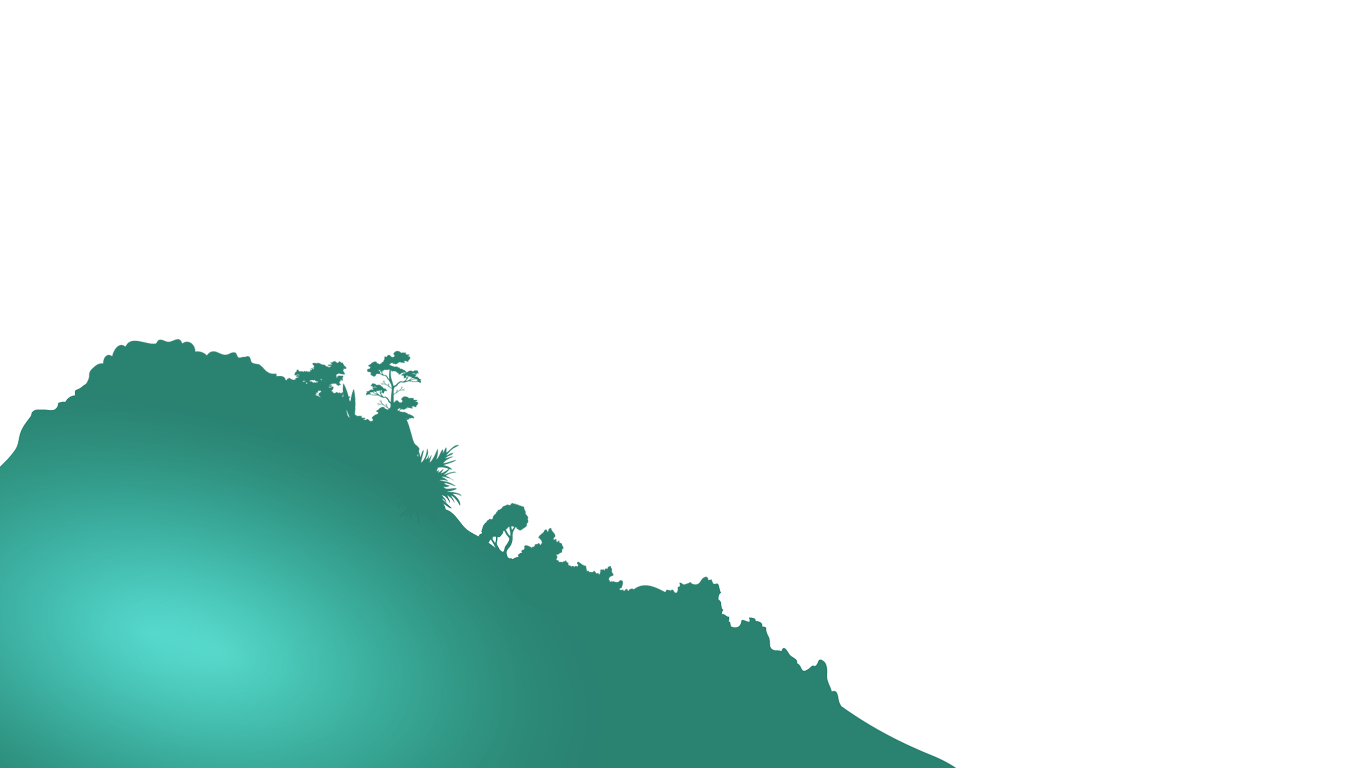
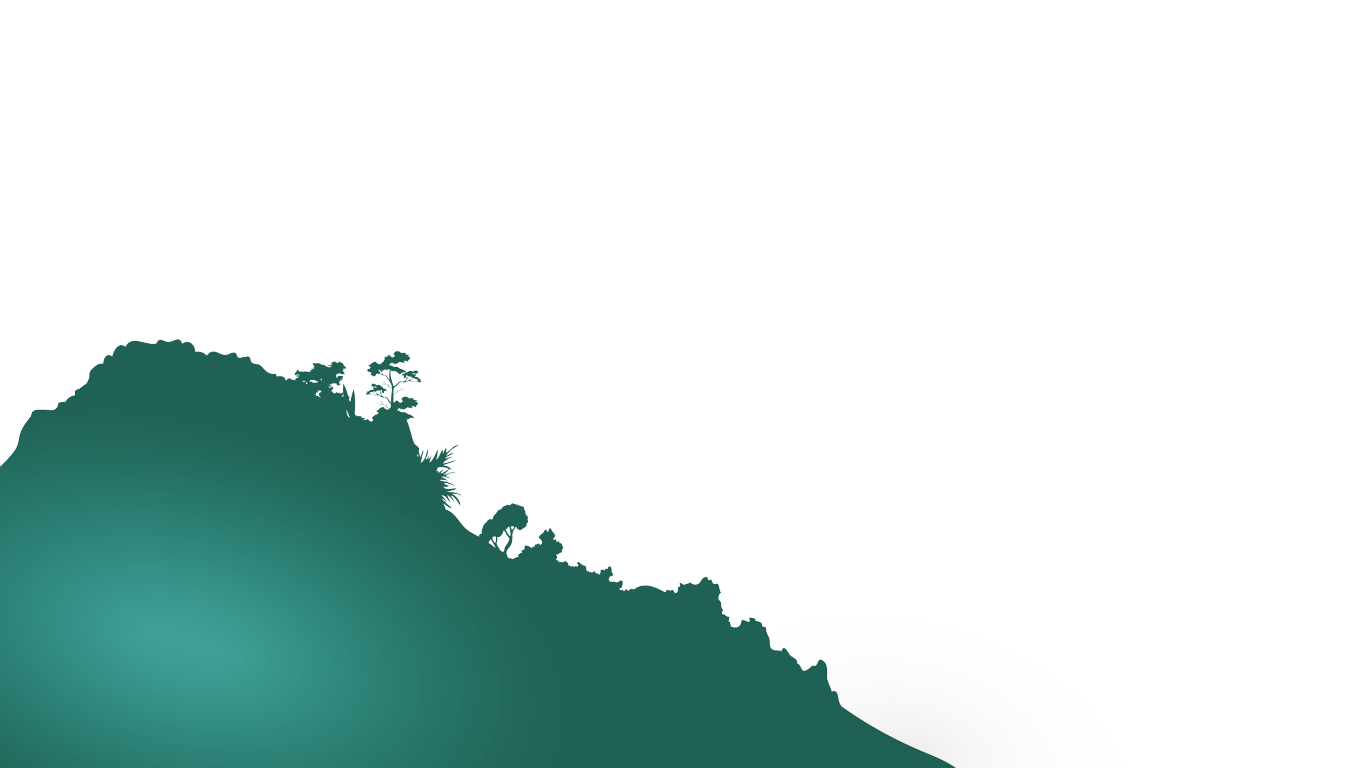
atualizado

Changed region(s): [[0.0, 0.4375, 0.7072, 1.0]]

diff --git a/style/realismo.css b/style/realismo.css
@@ -38,7 +38,7 @@
 
 .fundo-parallax {
 
-    background-color: rgb(232, 254, 255);
+    background: linear-gradient(#333, #333, #333, #333, #000, #000, #000, #000);
 
 }
 
@@ -236,8 +236,53 @@
 
 }
 
-@media (max-width: 345px) {
+@media (max-width: 343px) {
 
+    .sec {
+
+        display: flex;
+        justify-content: center;
+        background-color: rgb(0, 0, 0);
+        width: 100%;
+        height: 100%;
+        position: relative;
+        background: linear-gradient(#003329, #001d18, #00110e, #000000);
+        padding: 5% 0% 8% 0%;
+        color: #fff;
+        z-index: 300;
+        font-size: 20px;
     
+    }
+
+    #text {
+
+        font-size: 20px;
+
+    }
+
+    .parallax img {
+     
+        display: none;
+        background-color: black;
+    
+    }  
+    
+    .fundo-parallax {
+
+        background: linear-gradient( #000000, #00110e, #001d18, #003329, #003329, #003329, #003329);
+    
+    }
+
+}
+
+@media (max-width: 300px) {
+
+    #text {
+
+        font-size: 15px;
+        padding: 0%;
+        margin: 0%;
+
+    }
 
 }
